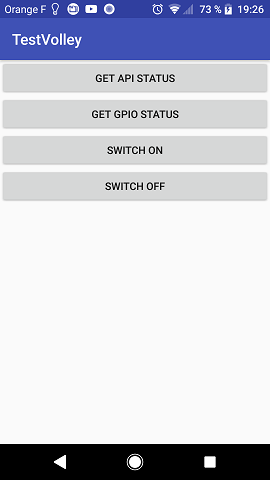
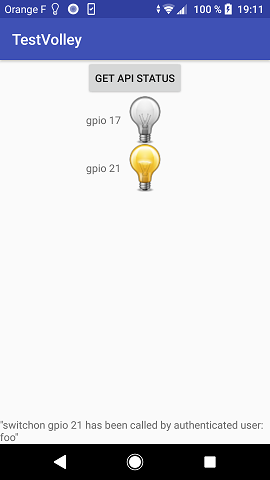
improve layout management & use ImageButton widget rather than Button widget

diff --git a/app/src/main/java/com/example/mat/testvolley/MainActivity.java b/app/src/main/java/com/example/mat/testvolley/MainActivity.java
@@ -1,7 +1,6 @@
 package com.example.mat.testvolley;
 
 import android.content.Context;
-import android.graphics.Color;
 import android.net.ConnectivityManager;
 import android.net.NetworkInfo;
 import android.os.Bundle;
@@ -9,8 +8,10 @@ import android.support.design.widget.Snackbar;
 import android.support.v7.app.AppCompatActivity;
 import android.util.Base64;
 import android.util.Log;
+import android.view.Gravity;
 import android.view.View;
 import android.widget.Button;
+import android.widget.ImageButton;
 import android.widget.LinearLayout;
 import android.widget.RelativeLayout;
 import android.widget.TextView;
@@ -34,23 +35,28 @@ import java.util.Map;
 
 
 // TODO :
+// improve layout management
 // use ImageButton widget rather than Button
 
 public class MainActivity extends AppCompatActivity
         implements View.OnClickListener {
 
-    private LinearLayout linearLayout;
-    private RelativeLayout relativeLayout;
-    private Button apiStatusButton;
-    private Button manageGpio17Button;
-    private Button manageGpio21Button;
-    private TextView resultsTextView;
-    private Snackbar snackbar;
-    private String TAG = "APIRest";
     private String credentials = "foo:bar";
+    private String TAG = "APIRest";
+    private RelativeLayout relativeLayout;
+    private LinearLayout linearLayout;
+    private LinearLayout gpio17Layout;
+    private LinearLayout gpio21Layout;
+    private Button apiStatusButton;
+    private ImageButton gpio17Button;
+    private ImageButton gpio21Button;
+    private TextView gpio17Label;
+    private TextView gpio21Label;
+    private TextView resultsTextView;
     private boolean gpioStatus;
     private boolean gpio17Status;
     private boolean gpio21Status;
+    private Snackbar snackbar;
 
     private String url;
     private RequestQueue queue;
@@ -60,7 +66,6 @@ public class MainActivity extends AppCompatActivity
         super.onCreate(savedInstanceState);
         queue = Volley.newRequestQueue(this);
         makeView();
-        //setContentView(linearLayout);
         setContentView(relativeLayout);
     }
 
@@ -77,16 +82,35 @@ public class MainActivity extends AppCompatActivity
         apiStatusButton.setId(R.id.bt_get_api_status);
 
         // gpio 17 button
-        manageGpio17Button = new Button(this);
-        manageGpio17Button.setText("Get GPIO 17 status");
-        manageGpio17Button.setOnClickListener(this);
-        manageGpio17Button.setId(R.id.bt_manage_gpio17);
+        gpio17Button = new ImageButton(this);
+        gpio17Button.setBackgroundResource(R.drawable.bulbonmicro);
+        gpio17Button.setOnClickListener(this);
+        gpio17Button.setId(R.id.bt_manage_gpio17);
+        // gpio 17 label
+        gpio17Label = new TextView(this);
+        gpio17Label.setText("gpio 17");
+        // linear layout gpio17
+        gpio17Layout = new LinearLayout(this);
+        gpio17Layout.setOrientation(LinearLayout.HORIZONTAL);
+        gpio17Layout.addView(gpio17Label);
+        gpio17Layout.addView(gpio17Button);
+        gpio17Layout.setVerticalGravity(Gravity.CENTER);
+
 
         // gpio 21 button
-        manageGpio21Button = new Button(this);
-        manageGpio21Button.setText("Get GPIO 21 status");
-        manageGpio21Button.setOnClickListener(this);
-        manageGpio21Button.setId(R.id.bt_manage_gpio21);
+        gpio21Button = new ImageButton(this);
+        gpio17Button.setBackgroundResource(R.drawable.bulbonmicro);
+        gpio21Button.setOnClickListener(this);
+        gpio21Button.setId(R.id.bt_manage_gpio21);
+        // gpio 21 label
+        gpio21Label = new TextView(this);
+        gpio21Label.setText("gpio 21");
+        // linear layout gpio 21
+        gpio21Layout = new LinearLayout(this);
+        gpio21Layout.setOrientation(LinearLayout.HORIZONTAL);
+        gpio21Layout.addView(gpio21Label);
+        gpio21Layout.addView(gpio21Button);
+        gpio21Layout.setVerticalGravity(Gravity.CENTER);
 
         // text view to display server response
         resultsTextView = new TextView(this);
@@ -99,8 +123,8 @@ public class MainActivity extends AppCompatActivity
         linearLayout = new LinearLayout(this);
         linearLayout.setOrientation(LinearLayout.VERTICAL);
         linearLayout.addView(apiStatusButton);
-        linearLayout.addView(manageGpio17Button);
-        linearLayout.addView(manageGpio21Button);
+        linearLayout.addView(gpio17Layout);
+        linearLayout.addView(gpio21Layout);
 
         // add linearLayout (buttons) and text view to parent layout
         relativeLayout.addView(linearLayout);
@@ -111,7 +135,6 @@ public class MainActivity extends AppCompatActivity
         resultsTextView.setLayoutParams(tvParam);
 
         RelativeLayout.LayoutParams llParam = (RelativeLayout.LayoutParams) linearLayout.getLayoutParams();
-//        llParam.addRule(RelativeLayout.CENTER_IN_PARENT);
         llParam.addRule(RelativeLayout.CENTER_HORIZONTAL);
         linearLayout.setLayoutParams(llParam);
     }
@@ -154,7 +177,6 @@ public class MainActivity extends AppCompatActivity
             default:
                 break;
         }
-
     }
 
     private boolean isConnected() {
@@ -201,27 +223,21 @@ public class MainActivity extends AppCompatActivity
                             case 17:
                                 gpio17Status = gpioStatus;
                                 if (gpio17Status) {
-                                    manageGpio17Button.setBackgroundColor(Color.YELLOW);
-                                    manageGpio17Button.setText("gpio17: put OFF");
+                                    gpio17Button.setBackgroundResource(R.drawable.bulbonmicro);
                                 } else {
-                                    manageGpio17Button.setBackgroundColor(Color.BLUE);
-                                    manageGpio17Button.setText("gpio17: put ON");
+                                    gpio17Button.setBackgroundResource(R.drawable.bulboffmicro);
                                 }
                                 break;
 
                             case 21:
                                 gpio21Status = gpioStatus;
                                 if (gpio21Status) {
-                                    manageGpio21Button.setBackgroundColor(Color.YELLOW);
-                                    manageGpio21Button.setText("gpio21: put OFF");
+                                    gpio21Button.setBackgroundResource(R.drawable.bulbonmicro);
                                 } else {
-                                    manageGpio21Button.setBackgroundColor(Color.BLUE);
-                                    manageGpio21Button.setText("gpio21: put ON");
+                                    gpio21Button.setBackgroundResource(R.drawable.bulboffmicro);
                                 }
                                 break;
                         }
-
-
                     }
                 },
                 new Response.ErrorListener() {
@@ -258,18 +274,15 @@ public class MainActivity extends AppCompatActivity
                         switch (gpioNb) {
                             case 17:
                                 gpio17Status = true;
-                                manageGpio17Button.setBackgroundColor(Color.YELLOW);
-                                manageGpio17Button.setText("gpio17: put OFF");
+                                gpio17Button.setBackgroundResource(R.drawable.bulbonmicro);
                                 resultsTextView.setText(response);
                                 break;
                             case 21:
                                 gpio21Status = true;
-                                manageGpio21Button.setBackgroundColor(Color.YELLOW);
-                                manageGpio21Button.setText("gpio21: put OFF");
+                                gpio21Button.setBackgroundResource(R.drawable.bulbonmicro);
                                 resultsTextView.setText(response);
                                 break;
                         }
-
                     }
                 },
                 new Response.ErrorListener() {
@@ -306,15 +319,13 @@ public class MainActivity extends AppCompatActivity
                         switch (gpioNb) {
                             case 17:
                                 gpio17Status = false;
-                                manageGpio17Button.setBackgroundColor(Color.BLUE);
-                                manageGpio17Button.setText("gpio17: put ON");
+                                gpio17Button.setBackgroundResource(R.drawable.bulboffmicro);
                                 resultsTextView.setText(response);
                                 break;
 
                             case 21:
                                 gpio21Status = false;
-                                manageGpio21Button.setBackgroundColor(Color.BLUE);
-                                manageGpio21Button.setText("gpio21: put ON");
+                                gpio21Button.setBackgroundResource(R.drawable.bulboffmicro);
                                 resultsTextView.setText(response);
                                 break;
                         }

diff --git a/README.md b/README.md
@@ -10,7 +10,7 @@ I use Volley library to send simple HTTP request, and HTTP request that need aut
 
 The screen should look like :
 
-![](screenshot2.png)
+![](screenshot.png)
 
 ## Without authentication
 
@@ -18,9 +18,9 @@ The first button allows to send a request to the raspberry pi and get the API st
 
 ## With authentication
 
-The second button allows following actions :
+The bulb buttons allows following actions :
 
-* get the GPIO status (GPIO 17) to know the level is High (led is ON) or Low (led is OFF)
+* get the GPIO status : led is ON or OFF
 
 * switch ON the led
 
